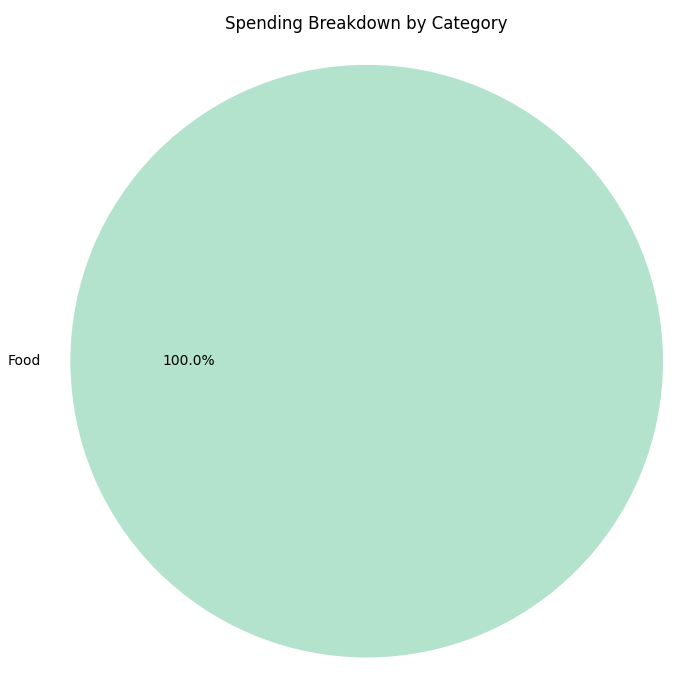
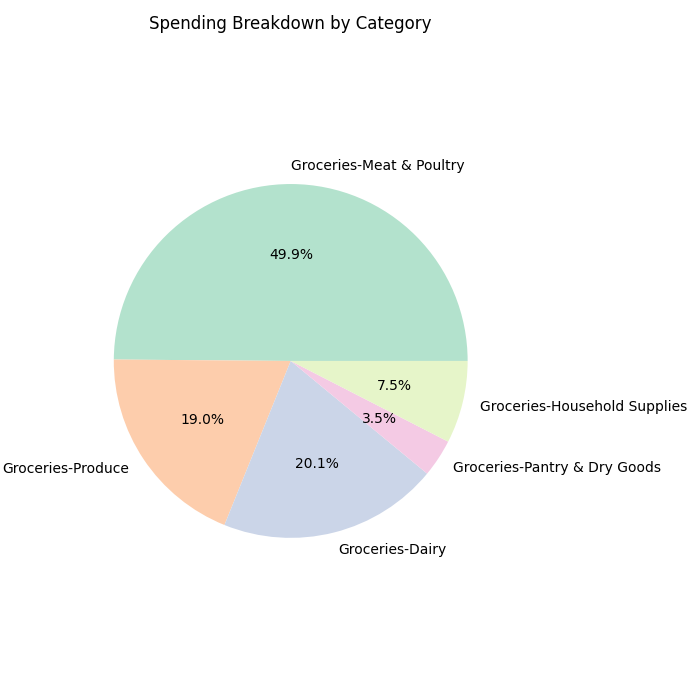
starting to work on login and db schema

diff --git a/templates/signup.html b/templates/signup.html
@@ -1,0 +1,22 @@
+<!DOCTYPE html>
+<html lang="en">
+<head>
+    <meta charset="UTF-8">
+    <title>Sign Up</title>
+    <link rel="stylesheet" href="{{ url_for('static', filename='style.css') }}">
+</head>
+<body>
+    <h1>Sign Up</h1>
+    {% if error %}<p class="error">{{ error }}</p>{% endif %}
+    <form method="POST">
+        <label>First Name:</label><input type="text" name="firstName" required>
+        <label>Last Name:</label><input type="text" name="lastName" required>
+        <label>Email:</label><input type="email" name="email" required>
+        <label>Password:</label><input type="password" name="password" required>
+    <button type="submit">Sign Up</button>
+    </form>
+    <p>Already have an account? <a href="{{ url_for('login') }}">Login</a></p>
+
+  </div>
+</body>
+</html>

diff --git a/templates/login.html b/templates/login.html
@@ -1,0 +1,22 @@
+<!DOCTYPE html>
+<html lang="en">
+<head>
+    <meta charset="UTF-8">
+    <meta name="viewport" content="width=device-width, initial-scale=1.0">
+    <title>Login</title>
+    <link rel="stylesheet" href="{{ url_for('static', filename='style.css') }}">
+</head>
+<body>
+    <h1>Login</h1>
+    {% if check %}<p class="error">{{ check }}</p>{% endif %}
+    <form method="POST">
+        <label>Email:</label><input type="email" name="email" required>
+        <label>Password:</label><input type="password" name="password" required>
+    <button type="submit">Login</button>
+    </form>
+    <p>Don't have an account? <a href="{{ url_for('signup') }}">Sign up</a></p>
+
+  </div>
+
+</body>
+</html>

diff --git a/receipt_analysis.py b/receipt_analysis.py
@@ -11,6 +11,8 @@ import json
 import time
 from openai import AzureOpenAI
 from dotenv import load_dotenv
+import matplotlib
+matplotlib.use('Agg')
 import matplotlib.pyplot as plt
 import matplotlib.image as mpimg
 import base64
@@ -140,13 +142,19 @@ def analyze_receipt(input_file_name):
                 "role": "system",
                 "content": """You're a helpful assistant that categorizes spending from receipts into budget categories and generates graphs.
                     When given receipt items, you must:
-                    1. Categorize each item into a category like Food, Health, Leisure, Household, or Other
+                    1. Categorize each item into a category like Food, Health, Leisure, Household, or Other. ITS CRITICAL you adhere to choose only from the categories provided:
+                        - Groceries... subcategories: Produce, Meat & Poultry, Dairy, Bakery, Pantry & Dry Goods, Frozen Foods, Snacks & Candy, Beverages (non-alcoholic), Alcoholic Beverages, Household Supplies, Pharmacy / Health Goods, Extras
+                        - Dining Out... subcategories: Fast Food, Casual Dining, Fine Dining, Coffee Shops, Takeout & Delivery, Bars & Pubs
+                        - Transportation... Subcategories: Gasoline, Parking, Public Transit, Car Maintenance, Tolls & Fees, Rideshare (Uber/Lyft), Travel
+                        - Clothing & Accessories... subcategories: Mens Clothing, Womens Clothing, Childrens Clothing, Footwear, Accessories
+                        - Leisure & Entertainment... subcategories: Movies & Events, Streaming Services, Games & Toys, Hobbies & Crafts, Sports & Fitness, Extras
+                        - If an item does not fit into any of these categories, classify it as Other.
                     2. Provide further separation into each category by dividing items into subcategories like Groceries-produce, groceries-meat, restaurant-fast food, restaurant-dine in, etc.
                     3. Group totals by category and find the total spending in each category by manually adding each item in that category
                     4. Acquire the total spending across all categories by adding up the totals of each category
                     5. Return the data by calling the plot_pie_chart function with a data dictionary
 
-                    IMPORTANT: Always call the plot_pie_chart function with the spending data. If you only have one category of items, provide the pie chart with the subcategories. If you have multiple categories, provide the pie chart with the main categories that dont have subcategories and the subcategories that compromise a main category.
+                    IMPORTANT: Always call the plot_pie_chart function with the spending data. If you only have one category of items, provide the pie chart with the subcategories. If you have multiple categories, provide the pie chart with just the main categories.
 
                     Example format for function call:
                     - If multiple categories: {"Food": 22.35, "Health": 15.50, "Household": 8.75}

diff --git a/app.py b/app.py
@@ -2,7 +2,8 @@ from flask import Flask, render_template, request
 import os
 from receipt_analysis import analyze_receipt
 import magic
-import time
+import sqlite3
+from flask import Flask, session, render_template, redirect, url_for, request
 
 app = Flask(__name__)
 app.secret_key = "poop fart"
@@ -18,9 +19,60 @@ ALLOWED_TYPES = {
     "image/png",
     "image/jpg"
 }
-
+def get_db_connection():
+    return sqlite3.connect("db.db")
 
 @app.route("/", methods=["GET", "POST"])
+def login():
+    check = None
+    if request.method == "POST":
+        email = request.form["email"]
+        password = request.form["password"]
+
+        conn = get_db_connection()
+        cur = conn.cursor()
+        cur.execute("SELECT uid, fname, lname FROM User WHERE email = ? AND password = ?", (email, password))
+        user = cur.fetchone()
+        conn.close()
+
+        if user:
+            session["uid"] = user[0]
+            session["fname"] = user[1]
+            session["lname"] = user[2]
+            return redirect(url_for("home"))
+        else:
+            check = "Invalid email or password."
+    return render_template("login.html", check=check)
+
+@app.route("/signup", methods=["GET", "POST"])
+def signup():
+    error = None
+    if request.method == "POST":
+        email = request.form["email"]
+        password = request.form["password"]
+        fname = request.form["firstName"]
+        lname = request.form["lastName"]
+
+        conn = get_db_connection()
+        cur = conn.cursor()
+        cur.execute("SELECT * FROM User WHERE email = ?", (email,))
+        if cur.fetchone():
+            error = "Email already registered."
+        else:
+            cur.execute("INSERT INTO User (fname, lname, email, password) VALUES (?, ?, ?, ?)",
+                        (fname, lname, email, password))
+            conn.commit()
+            uid = cur.lastrowid
+            session["uid"] = uid
+            session["fname"] = fname
+            session["lname"] = lname
+            conn.close()
+            return redirect(url_for("home"))
+        conn.close()
+    return render_template("signup.html", error=error)
+
+
+@app.route("/home", methods=["GET", "POST"])
 def index():
     result = None
     image_path = None
@@ -41,5 +93,5 @@ def index():
                 result, image_path = analyze_receipt(filepath)
     return render_template("home.html", result=result, image_path=image_path, error=error)
 
-if __name__ == "__main__":
-    app.run()
+if __name__ == '__main__':
+    app.run(host='0.0.0.0', port=8080, debug=True)
